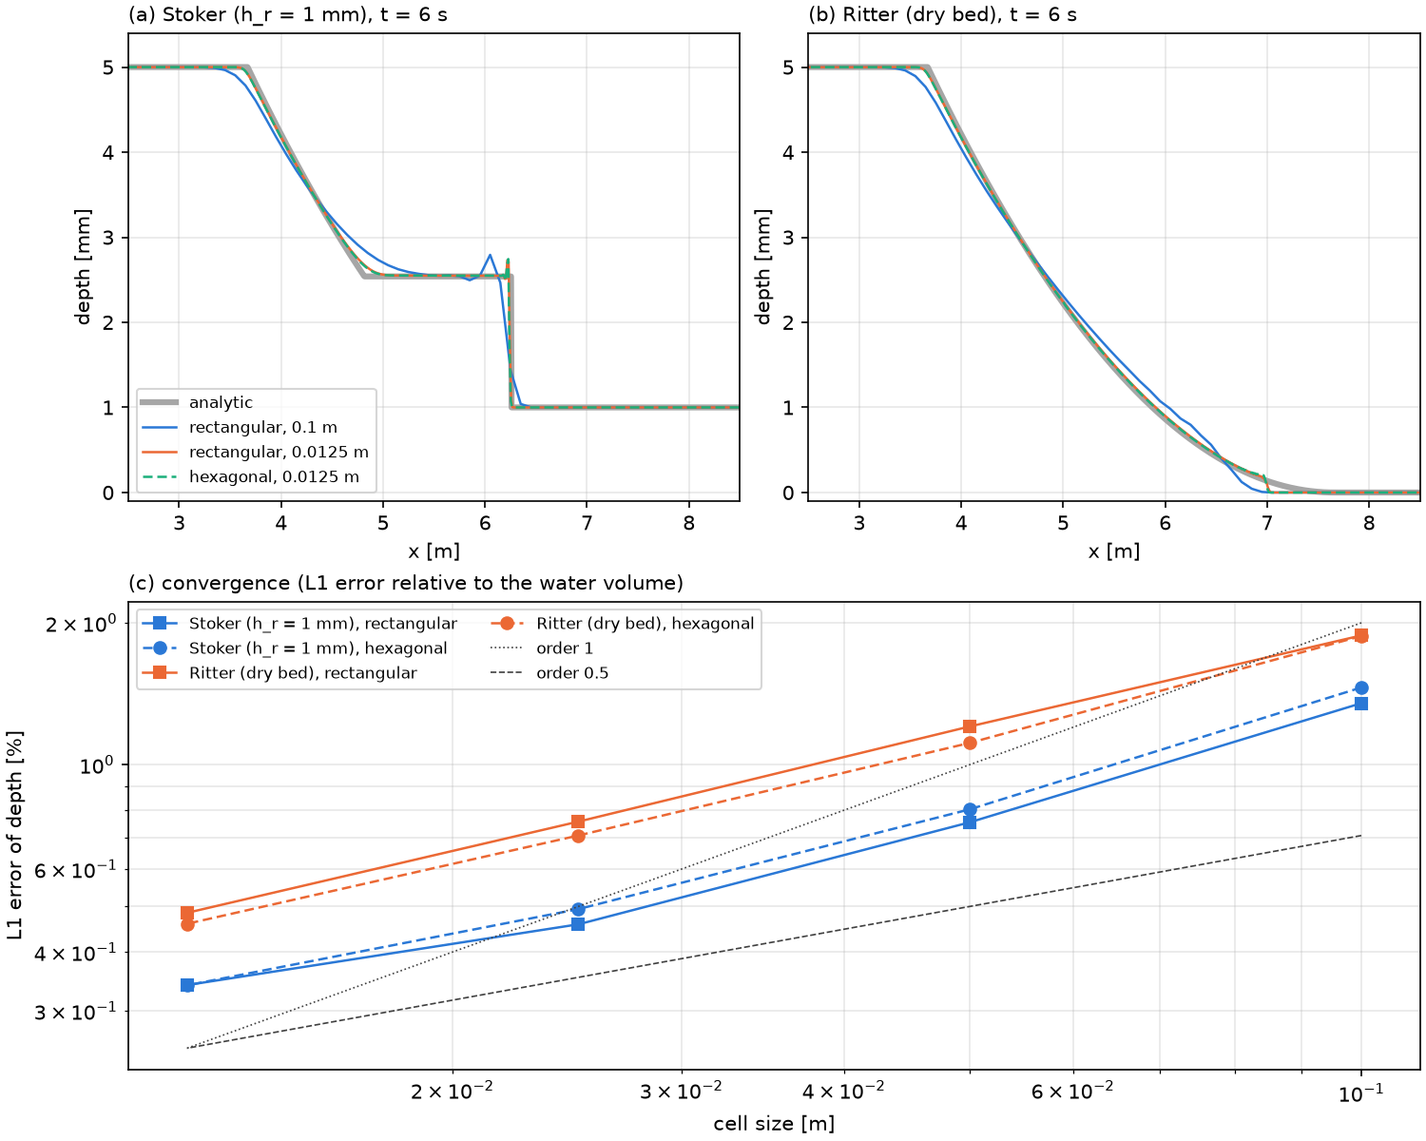
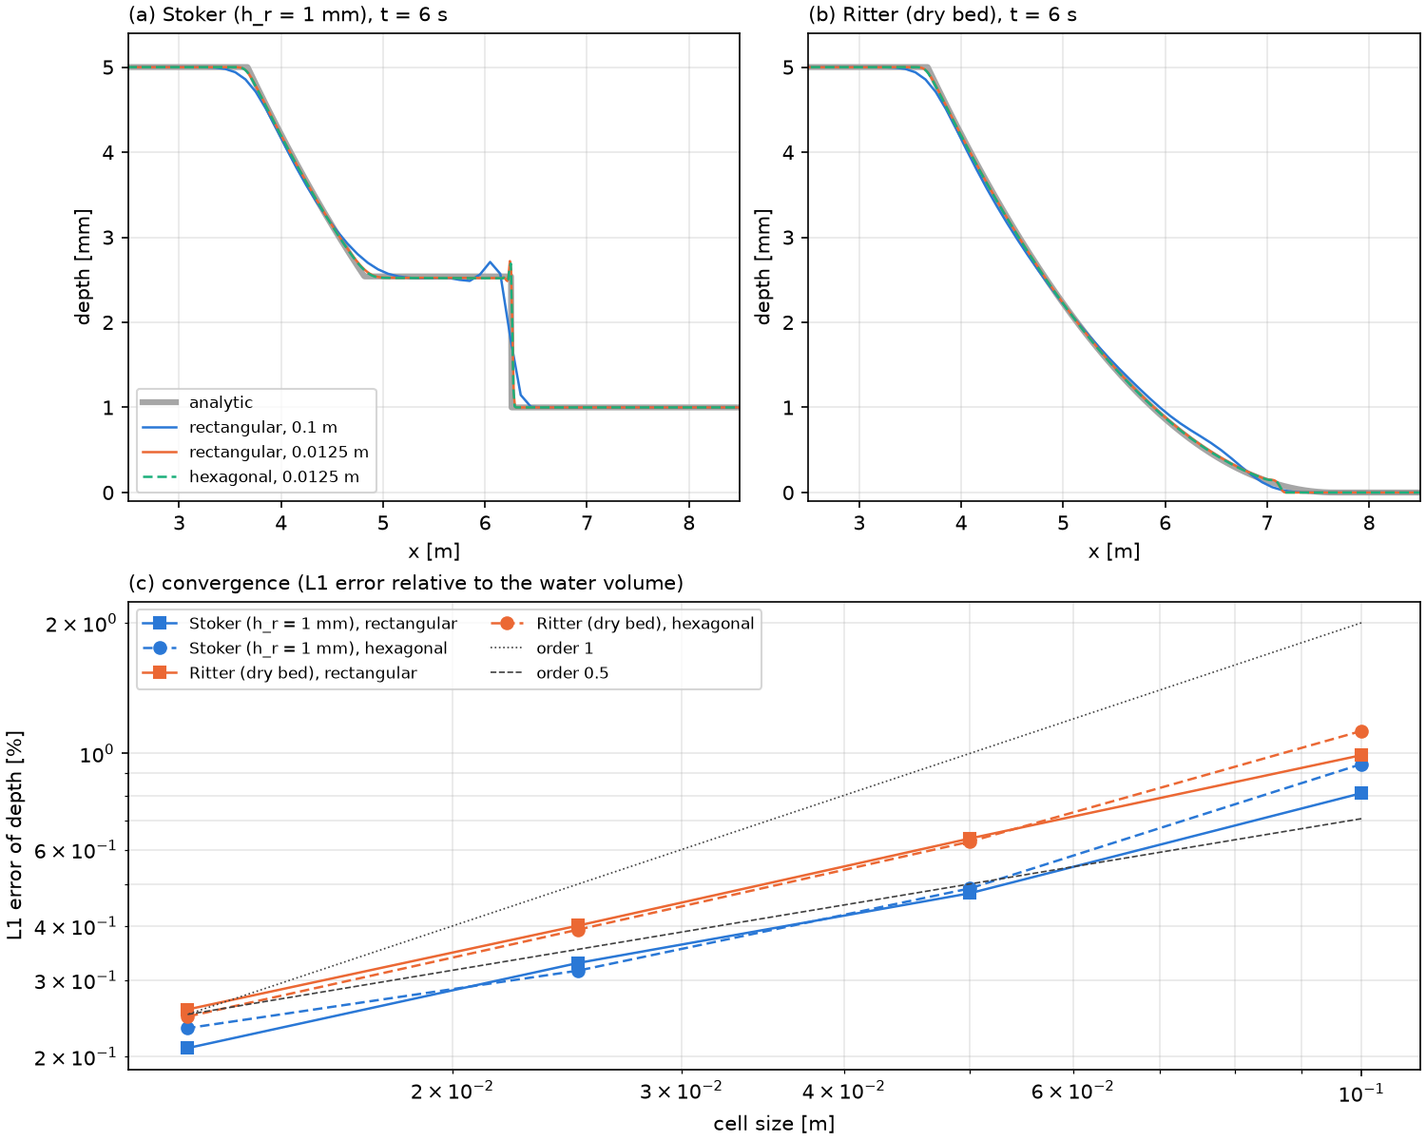
docs(verification): record all cases with the new defaults
All verification cases pass with second-order advection and the
predictor-corrector. Compared with the first-order records: V04 16.7%
(17%) after one period, V05 Stoker/Ritter 0.21%/0.26% (0.32%/0.53%) on
the finest grid, V07 -0.23% (-0.66%) before the jump, V09 -10.5%
(-23.6%) at 20 rows, V11 profiles converging by 0.53 per halving (0.72).
The sensitivity to a Courant number of 0.8 in V05-V07, the computing
times and the changed results of the sill example are recorded, and the
figures are redrawn.

Claude-Session: https://claude.ai/code/session_0163QpRb6tc7Fv4S6eEipgMW

diff --git a/docs/verification.md b/docs/verification.md
@@ -26,7 +26,7 @@ cargo test --test verification v06      # 1ケースだけ
 | V06 | 等流 | マニング式の等流水深に一致すること。周期境界では、静止状態から体積力で加速した流れが等流になること | 中央部の水深の相対誤差 $10^{-4}$ 以内。周期境界では流速の相対誤差 $10^{-4}$ 以内、水深の相対誤差 $10^{-10}$ 以内（確定） | `v06_uniform_flow` | ✅ |
 | V07 | 跳水 | 共役水深と跳水位置 | こぶを越える流れ（正方形配置・六角形配置）で、定常、跳水の位置の誤差が格子幅の 2 倍以下、跳水の直前と直後の水深の誤差 2% 以下、それ以外の水深の誤差 4% 以下（正方形配置では格子を細かくすると減る）（確定） | `v07_hydraulic_jump` | ✅ |
 | V08 | トレンチ移動 | 浮遊砂の検証 | トレンチの移動速度と形状（比較対象は実装時に選定） | `v08_trench_migration` | 📋 |
-| V09 | 交互砂州 | 線形安定解析の成長率と移動速度（周期境界。1次の形と、2次の移流＋予測子・修正子の形）。有限振幅の波長と波高（実験との比較）は未実装 | 横断方向 N 行と 2N 行の成長率の誤差の比が 0.4〜0.6（1次の収束）、Richardson 外挿した成長率の誤差が正方形配置で 5%・六角形配置で 10% 以下、細かい格子の移動速度の誤差が正方形配置で 2%・六角形配置で 5% 以下、発生の境より狭い水路で減衰すること（線形の比較は確定） | `v09_alternate_bars` | 🚧 |
+| V09 | 交互砂州 | 線形安定解析の成長率と移動速度（周期境界。既定の2次の移流と、比較用の1次の移流）。有限振幅の波長と波高（実験との比較）は未実装 | 横断方向 N 行と 2N 行の成長率の誤差の比が 0.4〜0.6（1次の収束）、Richardson 外挿した成長率の誤差が正方形配置で 5%・六角形配置で 10% 以下、細かい格子の移動速度の誤差が正方形配置で 2%・六角形配置で 5% 以下、発生の境より狭い水路で減衰すること（線形の比較は確定） | `v09_alternate_bars` | 🚧 |
 | V10 | 湾曲水路の河床変動 | 外岸側の洗掘 | 横断形状を既往の実験と比較 | `v10_bend_scour` | 📋 |
 | V11 | 河床のこぶの移動 | 移動速度と、格子を細かくしたときの縦断形の収束 | 格子幅 1・0.5・0.25 m で縦断形の差（L1）が格子を細かくするたびに減り、細かい2つの差がこぶの初期の体積の 15% 以下。高さ 0.02 m のこぶの山の移動速度が線形理論の値の 5% 以内。土砂の収支の誤差が $10^{-10}$ 以下（確定） | `v11_bump_migration` | ✅ |
 | V12 | 平衡河床の保持 | 等流に平衡給砂を与えると河床が変わらないこと | 正方形配置と格子生成ツールの格子で、全セルの河床の変化が $10^{-12}$ m 以下。六角形配置で、中央部の変化が $10^{-3}$ m 以下、格子幅 2 m → 1 m で 1/4 以下。一定の給砂量（六角形配置 2 m）でも中央部 $10^{-3}$ m 以下、上流端に接するセル $10^{-2}$ m 以下。周期境界では、六角形配置でも全セル $10^{-12}$ m 以下。土砂と水の収支の誤差が $10^{-10}$ 以下（確定） | `v12_equilibrium_bed` | ✅ |
@@ -145,19 +145,20 @@ cargo test --test verification v06      # 1ケースだけ
 
 | 幅 B | β | 波長 L | 成長率 [1/s] | 移動速度 [m/s] | 格子（横断方向の行数） |
 |---|---|---|---|---|---|
-| 40 m | 18.7 | 211.4 m（MORFAC 1 で最も速く育つ波長） | $2.5895\times10^{-3}$ | 0.33858 | 正方形・六角形の 10・20 行 |
+| 40 m | 18.7 | 211.4 m（MORFAC 1 で最も速く育つ波長） | $2.5895\times10^{-3}$ | 0.33858 | 正方形の 10・20 行、六角形の 20・40 行 |
 | 40 m | 18.7 | 400 m | $1.6758\times10^{-3}$ | 0.22031 | 正方形の 10・20 行 |
-| 40 m | 18.7 | 100 m | $2.1121\times10^{-3}$ | 0.53126 | 正方形の 10・20 行 |
+| 40 m | 18.7 | 100 m | $2.1121\times10^{-3}$ | 0.53126 | 正方形の 20・40 行 |
 | 10 m | 4.7 | 142.5 m（どの波長でも減衰） | $-5.0585\times10^{-3}$ | 0.31199 | 正方形の 5・10 行、六角形の 10 行 |
 
-- 上の表は、既定の1次の風上差分・1段（`advection = "upwind"`、`time_integration = "euler"`、クーラン数 0.5）で計算します。さらに、2次の移流と予測子・修正子（`second_order`、`predictor_corrector`、クーラン数 0.8。[ADR-0016](design/adr/0016-second-order-advection-ssp-rk2.md)、[ADR-0017](design/adr/0017-predictor-corrector.md)）で、幅 40 m・L = 211.4 m を正方形の 10・20 行と六角形の 20・40 行で計算します（六角形の 10 行は減衰するので除きます）。
+- 上の表は、既定の設定（2次の移流、予測子・修正子。[ADR-0016](design/adr/0016-second-order-advection-ssp-rk2.md)、[ADR-0017](design/adr/0017-predictor-corrector.md)）で、可変の時間刻みのクーラン数 0.8 で計算します。六角形の 10 行は減衰するので、主な波長は 20・40 行にしました。L = 100 m は、10・20 行では誤差が −196%・−95% と大きく1次の収束の範囲に入らない（外挿 +5.6%）ので、20・40 行にしました。
+- 比較のために、1次の移流（`advection = "upwind"`。時間積分とクーラン数は同じ）で、主な波長を正方形・六角形の 10・20 行で計算し、同じ基準で確かめます。
 
 - 合格基準と根拠：
-  - 移流と辺の水深の1次の風上差分の数値拡散で、成長率は理論より小さく出ます。格子幅を半分にすると誤差がちょうど半分になる（1次の収束）ので、N 行と 2N 行の2段の計算の誤差の比が 0.4〜0.6 であること、1次精度を仮定した Richardson 外挿 $2\sigma_{2N} - \sigma_N$ が理論の 5%（正方形配置）・10%（六角形配置）以内であることを確かめます。粗い格子の誤差の大きさそのものは、基準にしません。
+  - 辺の水深（と、比較用のケースでは移流）の1次の風上差分の数値拡散で、成長率は理論より小さく出ます。格子幅を半分にすると誤差がちょうど半分になる（1次の収束）ので、N 行と 2N 行の2段の計算の誤差の比が 0.4〜0.6 であること、1次精度を仮定した Richardson 外挿 $2\sigma_{2N} - \sigma_N$ が理論の 5%（正方形配置）・10%（六角形配置）以内であることを確かめます。粗い格子の誤差の大きさそのものは、基準にしません。
   - 移動速度は数値拡散の影響が小さいので、細かい方の格子で 2%（正方形配置）・5%（六角形配置）以内とします。
   - 発生の境より狭い幅 10 m では、どちらの配置でも振幅が減衰することを確かめます。
-  - 2次の移流でも、辺の水深 $H_j = \eta_{\mathrm{up}} - \max(z_{b,1}, z_{b,2})$ が1次精度なので、成長率の収束は1次のままです（[overview.md](design/overview.md) の第8章）。そのため、2次の形のケースにも同じ基準を使います。
-- 実行時間は、1次の形の 11 ケースを並列にして約 15 s でした。2次の形の 4 ケースを加えると、15 ケースで約 110 s です（`cargo test --release`、8 スレッド。最も重いのは六角形の 40 行の 7320 セル）。
+  - 2次の移流でも、辺の水深 $H_j = \eta_{\mathrm{up}} - \max(z_{b,1}, z_{b,2})$ が1次精度なので、成長率の収束は1次のままです（[overview.md](design/overview.md) の第8章）。そのため、1次の形と同じ基準を使います。
+- 実行時間は、15 ケースを並列にして約 110 s です（`cargo test --release`、8 スレッド。最も重いのは六角形の 40 行の 7320 セル）。
 
 ### V11 河床のこぶの移動
 
@@ -166,7 +167,7 @@ cargo test --test verification v06      # 1ケースだけ
 - 勾配 1/500、単位幅流量 2 m²/s、$n$ = 0.025 の等流（水深 1.069 m、$Fr$ = 0.58）の河床に、σ = 4 m のガウス型のこぶを置きます。延長 300 m、こぶの中心は x = 200 m です。
   - こぶの背水が上流端に届いて給砂量を変えないよう、こぶの上流に 200 m とりました（延長 120 m・こぶを x = 30 m に置いた試計算では、上流の区間が最大 8 mm 掘れて、こぶの重心を歪めました）。
 - 流砂の条件は `examples/sill.toml` と同じ（粒径 2 mm、MPM 式、MORFAC 10）で、上流端は平衡給砂です。固定床で 300 s 助走した後、河床変動を 300 s（地形の時間 3000 s）解きます。
-- 1次元の流れを、幅1セルの正方形配置で解きます。時間刻みは可変（クーラン数 0.5、上限 0.5 s）です。
+- 1次元の流れを、幅1セルの正方形配置で解きます。時間刻みは可変（クーラン数 0.8、上限 0.5 s）です。
 - 次を確かめます。
   - 高さ 0.1 m のこぶを格子幅 1・0.5・0.25 m で解き、縦断形の差 $\int \lvert b_1 - b_2\rvert\,dx$（$b$ は河床高から基準の勾配を引いた値）が格子を細かくするたびに減ること、細かい2つの差がこぶの初期の体積（$0.1\sqrt{\pi}\sigma$ = 0.709 m²）の 15% 以下であること
   - 高さ 0.02 m の小さなこぶ（格子幅 0.25 m）の山の移動速度が、線形理論の値の 5% 以内であること
@@ -190,7 +191,7 @@ $$
   - 辺の掃流砂量は $q_{b0}(1 + \gamma I)\,n_{x,j}$ になり、セルの閉合 $\sum_k s_{i,k} L_k \mathbf{n}_k = \mathbf{0}$ から、発散は 0 です。
   - 上流端（給砂）と下流端（流出）の辺では、内側のセルの河床勾配を外挿するので、境界辺の流砂量も内部の辺と同じ値になります。
 - 条件は V06 と同じ（勾配 1/500、単位幅流量 2 m²/s、$n$ = 0.025、下流端の水位を等流水位に固定）で、`examples/sill.toml` の流砂の条件（粒径 2 mm、MPM 式、MORFAC 10、掃流砂だけ）を加えます。等流水深 1.069 m で $\tau_\ast$ = 0.648 です。
-- 初期条件は等流（水深 $h_n$、辺に流速 $u_n n_x$）で、最初から河床変動を計算し、600 s（地形の時間 6000 s）進めます。時間刻みは可変（クーラン数 0.5、上限 1 s）です。
+- 初期条件は等流（水深 $h_n$、辺に流速 $u_n n_x$）で、最初から河床変動を計算し、600 s（地形の時間 6000 s）進めます。時間刻みは可変（クーラン数 0.8、上限 1 s）です。
 - 格子は次の4つです。
   - 直線水路（延長 200 m、幅 20 m）の正方形配置 2 m・六角形配置 2 m・1 m
   - 格子生成ツールで作った直線水路（延長 60 m、幅 10 m、格子幅 2 m、173 セル。`tests/data/straight_coarse.mesh.toml`）。母点が不規則で、外周に 90° の凸な角が 4 つあります
@@ -700,3 +701,102 @@ uv run --project tools python tools/plot_verification.py v09 output/verification
 
 - SSP-RK2 の値（上の commit 6282e8f の表）より、成長率の誤差は 1 ポイントほど大きくなりました（正方形 20 行で −9.2% → −10.5%）。Richardson 外挿は理論と +1.1%・+0.0% で一致し、収束は1次のままです。
 - 一時的に既定を2次の移流と予測子・修正子にして、すべての検証ケースを計算しました（ADR-0017 の「検証ケースの結果」）。V03〜V07、V11、V12 も合格基準を満たします。既定の切り替えは、図と値を記録して別の変更で行います。
+
+### 全検証ケース：既定を2次の移流と予測子・修正子にした後（2026-11-07, commit 95a46cd）
+
+既定の移流を `second_order`、時間積分を `predictor_corrector` に切り替えた後の結果です（[ADR-0016](design/adr/0016-second-order-advection-ssp-rk2.md)、[ADR-0017](design/adr/0017-predictor-corrector.md)、[ADR-0018](design/adr/0018-open-boundary-first-order.md)）。`VORMORPH_VERIFICATION_OUTPUT=output/verification cargo test --release --test verification -- --nocapture` の出力で、図（V04・V05・V06・V07・V09・V11）もこの結果から描き直しました。すべての合格基準を満たします。
+
+- 時間刻み：V09・V11・V12（準定常の河床変動）は、可変の時間刻みのクーラン数を 0.5 から 0.8 に上げました。V04（$T/200$）、V05（最大流速に対して 0.5）、V06（0.47）、V07（0.5）は変えていません（下の「クーラン数 0.8 の感度」）。
+- 実行時間：VTK を書き出して 272 s（8 スレッド）。VTK を書き出さない `cargo test` は下の「計算時間」。
+
+**V03 静水保持**：3つの格子とも、流速と水位の変化は 0 のままです（SSP-RK2 の版では $1.1\times10^{-12}$ m/s まで動きました。ADR-0017）。
+
+**V04 Thacker**（格子幅 0.05 m、$T/200$）：体積の相対誤差は $5.1\times10^{-14}$ ／ $3.4\times10^{-14}$（正方形／六角形）、連続式の残差の最大値は $1.3\times10^{-14}$ ／ $4.7\times10^{-15}$ m です。
+
+| 時刻 | 正方形配置 | 六角形配置 | 1次の移流（以前の記録、正方形） | 基準 |
+|---|---|---|---|---|
+| $T$ | 16.7% ／ 0.094 m | 15.6% ／ 0.095 m | 17% ／ 0.095 m | 20% ／ 0.12 m |
+| $3T$ | 33.9% ／ 0.200 m | 33.4% ／ 0.201 m | 35% ／ 0.21 m | 40% ／ 0.25 m |
+
+**V05 ダム破壊**：L1 誤差（格子幅 0.1 → 0.05 → 0.025 → 0.0125 m）と平均の収束次数です。
+
+| ケース | 正方形配置 | 六角形配置 | 1次の移流（以前の記録、正方形／六角形） |
+|---|---|---|---|
+| Stoker | 0.81% → 0.48% → 0.33% → 0.21%、0.65 | 0.94% → 0.49% → 0.32% → 0.23%、0.67 | 0.32% ／ 0.32%（最も細かい格子） |
+| Ritter | 0.99% → 0.64% → 0.40% → 0.26%、0.65 | 1.13% → 0.63% → 0.39% → 0.25%、0.73 | 0.53% ／ 0.49% |
+
+- Stoker の衝撃波の位置の誤差は、最大で格子幅の 0.5 倍です（以前は 1.2 倍）。
+- Ritter の先端の遅れは、正方形配置で 0.14 → 0.12 → 0.06 → 0.00 m と、格子を細かくするたびに減ります。
+
+**V06 等流**：中央部の水深の相対誤差は、格子幅 2 m の正方形配置で $2.0\times10^{-9}$、2 m の六角形配置で $3.0\times10^{-6}$（以前 $5.0\times10^{-7}$）、1 m の六角形配置で $1.1\times10^{-8}$ です（合格基準 $10^{-4}$）。周期境界は、流速の相対誤差 $2.5\times10^{-11}$ で以前と同じです。六角形 2 m の誤差の増加は、境界のセルを1次にする前（ADR-0018）から同じ値だったので、2次の移流で、六角形配置の境界付近の過渡の振動の減衰が遅いためと考えられます（最大の誤差は上下流端の近くのセル）。
+
+**V07 跳水**（300 s 後）：
+
+| 格子 | 跳水の位置の誤差 | 跳水の直前／直後の水深の誤差 | 跳水の近くを除く最大の誤差 | 1次の移流（以前の記録） |
+|---|---|---|---|---|
+| 正方形 0.1 m | −0.3Δx | +1.42% ／ −0.14% | 3.09% | −0.6Δx、−0.72% ／ −0.68%、3.61% |
+| 正方形 0.05 m | −0.3Δx | −0.23% ／ +0.01% | 1.69% | −0.6Δx、−0.66% ／ −0.07%、1.94% |
+| 六角形 0.05 m | −0.2Δx | −0.22% ／ −0.03% | 1.45% | −0.5Δx、−0.57% ／ −0.06%、1.67% |
+
+**V09 交互砂州**（クーラン数 0.8）：
+
+| ケース | 格子（セル数） | 成長率の誤差 | 移動速度の誤差 | 誤差の比 | 外挿した成長率の誤差 |
+|---|---|---|---|---|---|
+| B = 40 m、L = 211.4 m | 正方形 10・20 行（530・2120） | −22.2%・−10.5% | +1.4%・+0.8% | 0.475 | +1.1% |
+| | 六角形 20・40 行（1840・7320） | −63.0%・−31.5% | +0.6%・+0.4% | 0.500 | +0.0% |
+| B = 40 m、L = 400 m | 正方形 10・20 行（1000・4000） | −6.2%・−2.9% | +1.7%・+0.9% | 0.474 | +0.3% |
+| B = 40 m、L = 100 m | 正方形 20・40 行（1000・4000） | −95.0%・−47.6% | +0.3%・+0.2% | 0.501 | −0.2% |
+| B = 10 m、L = 142.5 m | 正方形 5・10 行（355・1430） | +7.8%・+4.4% | +1.5%・+0.8% | 0.565 | +1.0% |
+| | 六角形 10 行（1230） | 減衰（+191%） | +2.8% | | |
+| 1次の移流、B = 40 m、L = 211.4 m | 正方形 10・20 行 | −47.4%・−23.7% | +0.2%・+0.2% | 0.499 | +0.1% |
+| | 六角形 10・20 行 | −173.7%・−88.5% | −6.7%・−3.2% | 0.509 | −3.3% |
+
+- 1次の移流の値は、時間積分を予測子・修正子、クーラン数を 0.8 にしても、以前の記録（1段、0.5）とほとんど変わりません（正方形 20 行で −23.6% → −23.7%）。
+- 2次の移流で、長い波（L = 400 m）の誤差は −9.6% から −2.9%（20 行）に減りました。短い波（L = 100 m）は、20 行で −128% → −95% と依然として大きく、40 行で −48% です。
+
+**V11 河床のこぶの移動**（クーラン数 0.8）：
+
+| 格子幅 | こぶの初期の高さ | 山の位置 | 山の高さ | 山の移動速度（線形理論との差） | 1つ粗い格子との縦断形の差（L1） |
+|---|---|---|---|---|---|
+| 1 m | 0.1 m | 239.79 m | 0.0295 m | 0.1326 m/s（+12.0%） | |
+| 0.5 m | 0.1 m | 242.25 m | 0.0317 m | 0.1408 m/s（+19.0%） | 0.0999 m²（14.1%） |
+| 0.25 m | 0.1 m | 243.62 m | 0.0343 m | 0.1454 m/s（+22.8%） | 0.0534 m²（7.5%） |
+| 0.25 m | 0.02 m | 235.51 m | 0.0086 m | 0.1184 m/s（−0.0%） | |
+
+- 縦断形の差は格子幅を半分にするたびに 0.53 倍になり（1次の移流では 0.72 倍）、収束が速くなりました。小さなこぶの山は線形理論の速さで動きます（以前 −1.0%）。
+- 高いこぶの山の速さは、以前と同じく格子を細かくするほど速く出ます（前面が切り立つ非線形の効果）。
+
+**V12 平衡河床の保持**（クーラン数 0.8）：正方形配置 $1.7\times10^{-15}$ m、格子生成ツールの格子 $1.6\times10^{-14}$ m、周期境界 0 ／ $8.8\times10^{-15}$ m。六角形配置は、全体（入口のセル）で 3.3 mm、中央部で 0.35 mm（2 m）→ 0.030 mm（1 m）、一定の給砂量で 2.4 mm ／ 0.42 mm です。
+
+**クーラン数 0.8 の感度**（一時的に、V05・V06・V07 の時間刻みも 1.6 倍にして計算）：
+
+| ケース | 今の時間刻み | 1.6 倍（クーラン数 約 0.8） |
+|---|---|---|
+| V05 Stoker の L1 誤差（正方形 0.0125 m）／平均の収束次数 | 0.21% ／ 0.65 | 0.28% ／ 0.51 |
+| V05 Ritter の L1 誤差（正方形 0.0125 m） | 0.26% | 0.25% |
+| V06 六角形 2 m の中央部の誤差 | $3.4\times10^{-6}$ | $2.0\times10^{-5}$ |
+| V07 六角形 0.05 m の跳水の位置の誤差 | −0.2Δx | −0.8Δx |
+| V11・V12 | — | ほぼ同じ値（V11 の山の位置の差 0.02 m 以下） |
+
+- どのケースも合格基準を満たしましたが、動く衝撃波（Stoker）は時間刻みに敏感で、収束次数が基準 0.5 に近づきました。流れの検証ケースは今の時間刻みのままにし、準定常の河床変動のケースだけ 0.8 にしました。
+
+**計算時間**：
+
+- `cargo test`（最適化したテストのビルド、8 スレッド）の検証テストは、以前の約 136 s から約 253 s になりました。予測子・修正子は1ステップに水位を2回解くので、時間刻みを変えていない V04〜V07 は約2倍になります。
+- `examples/sill.toml`（4589 セル、3600 s、リリースビルド）は、クーラン数 0.8 で 46549 ステップ・280 s でした。1次の移流・1段・クーラン数 0.5 の以前の記録は 61554 ステップ・255 s で（README）、1ステップに2回解く分をクーラン数で取り戻し、約 1.1 倍に収まりました。
+
+### 床止めの例題：既定の移流と時間積分を変えた後（参考、2026-11-07）
+
+`examples/sill.toml` を、新しい既定（2次の移流、予測子・修正子）で計算し、README の図を描き直しました。クーラン数 0.5 と 0.8 の河床の変化の差は最大 2 mm（RMS 0.9 mm）だったので、例題は 0.8 にしました。
+
+| | 1次の移流・1段（以前の既定、クーラン数 0.5） | 2次の移流・予測子・修正子（クーラン数 0.8） |
+|---|---|---|
+| 床止めの直下（x = 82.5 m）の洗掘 | −0.68 m | −1.05 m |
+| 下流の堆積の最大値 | +0.41 m（x = 86.5 m） | +0.23 m（x = 85.0 m） |
+| 床止めの上流（x < 78 m）の低下の最大値 | −0.16 m | −0.07 m |
+| ステップ数 | 61523 | 46549 |
+| 計算時間（リリースビルド、単独） | 255 s（以前の記録） | 280 s |
+
+- 今のコードで1次の移流・1段を計算し直すと、以前の結果と一致しました。違いは移流と時間積分によるものです。
+- 固定床の流れ（600 s）では、跳水の位置はどちらも x ≈ 95 m で、床止めの天端より上流の水深が違いました（天端の上流端で 1次 0.62 m、2次 0.79 m。限界水深は 0.74 m）。1次の移流は、加速する流れで天端の水深が過小になります（V07 の頂部の上流の誤差と同じ種類。[ADR-0003](design/adr/0003-conservative-upwind-advection.md) のエネルギー水頭保存形の課題）。2次の移流ではこの誤差が小さく、床止めの上流の水面低下が小さくなりました。そのため、上流の河床低下と、平衡給砂の給砂量の増加が小さくなり、下流の堆積も減ったと考えられます。
+- 床止めの直下の洗掘孔は1セル幅で、深さは格子幅に依存します（上の「床止めの例題の格子依存性」）。2次の移流では、跳水の前の射流が数値拡散で弱まりにくいので、深くなったと考えられます。
